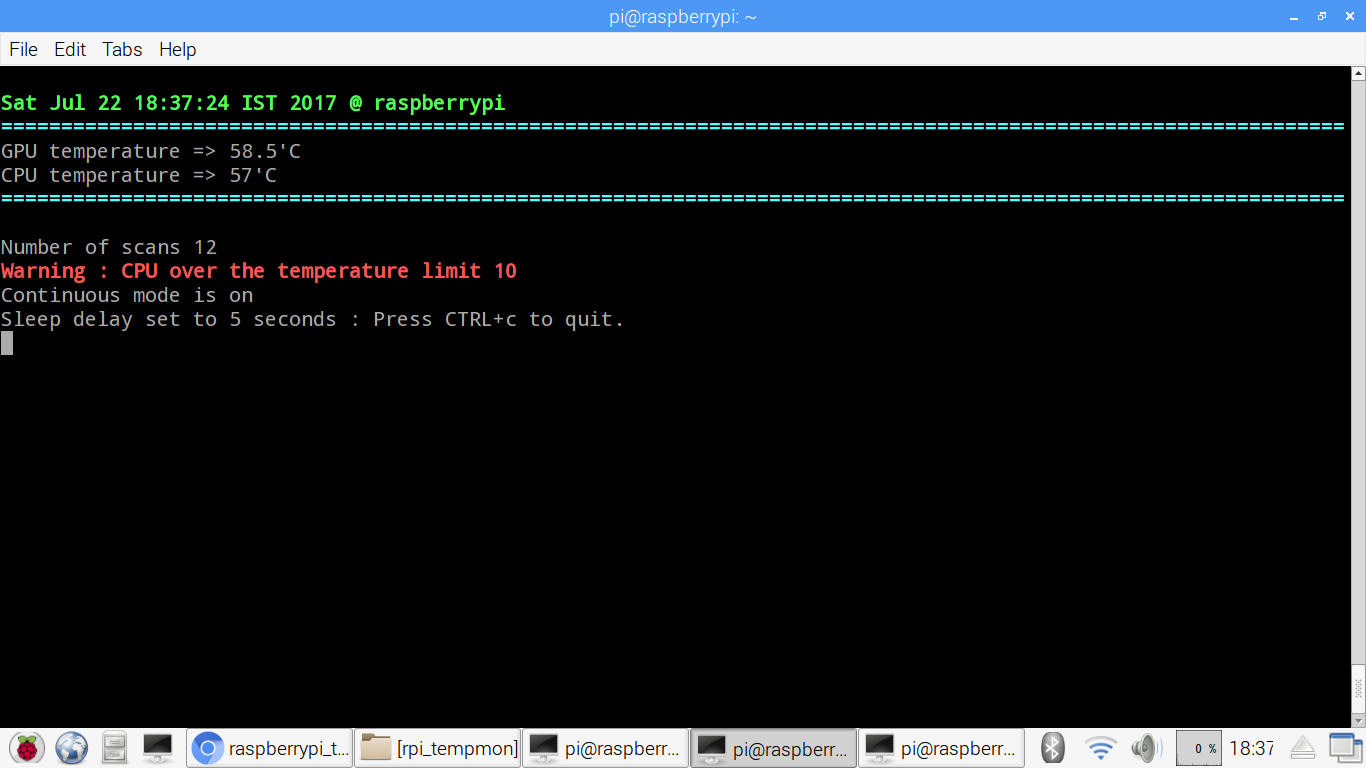
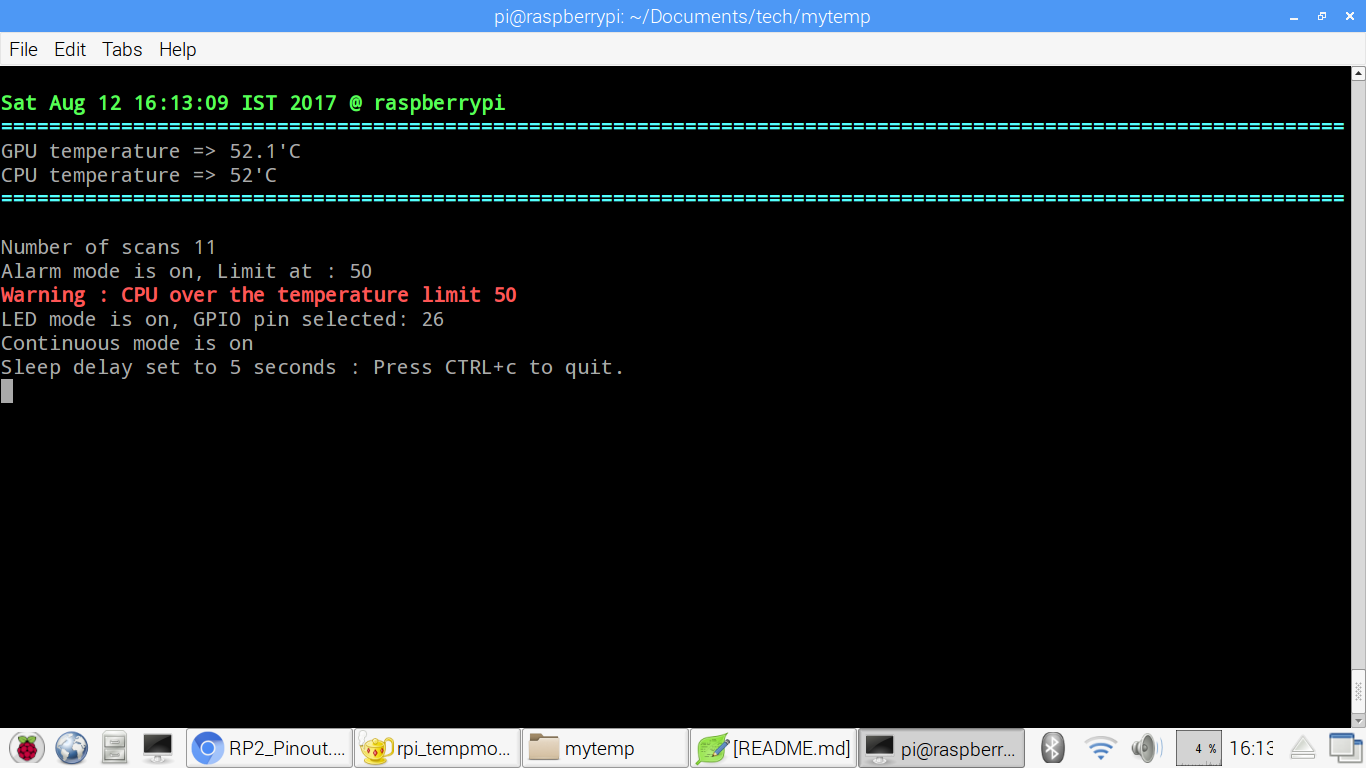
version 1.2-3

diff --git a/rpi_tempmon_lib.py b/rpi_tempmon_lib.py
@@ -1,0 +1,19 @@
+'''gavin lyons 120817 called from 
+tunrs led on and off rp_tempmon passed LED GPIO and on/off option '''
+
+import RPi.GPIO as GPIO
+import sys
+GPIO.setmode(GPIO.BCM)
+GPIO.setwarnings(False)
+led = int(sys.argv[1])
+GPIO.setup(led,GPIO.OUT)
+
+if sys.argv[2] == "off" :
+	GPIO.output(led,False)
+else:
+	GPIO.output(led,True)
+
+
+
+
+

diff --git a/README.md b/README.md
@@ -4,7 +4,9 @@ Overview
 * Title : Display the ARM CPU and GPU temperature of Raspberry Pi 2/3  
 * Description: This bash script will display the ARM CPU and 
 GPU temperature of Raspberry Pi 2/3 
-includes logging, alarm and mailing options. 
+includes GPIO LED output, logging, alarm and mailing options. 
+The main script is written in bash but it uses 
+a python module for the GPIO LED function.
 * Author: Gavin Lyons
 
 Table of contents
@@ -26,19 +28,31 @@ Table of contents
 Installation
 -----------------------------------------------
 rpi_tempmon is installed by copying script to an executable 
-path at $PATH and making it executable.
+path at $PATH and making it executable and also if the user wants to use the GPIO LED function
+they also must install a python library file.
 
 * Download and extract files from repository.
+
 * Copy the script file to an executable path for example 
 
 ```sh 
 sudo cp /home/pi/Downloads/rpi_tempmon.sh /usr/local/bin
 ```
 
-* Give it permission to run as script 
+* Give it permissions 
 
 ```sh
 sudo chmod u+x /usr/local/bin/rpi_tempmon.sh
+```
+* copy the python library file to following location
+
+```sh
+sudo cp /home/pi/Downloads/rpi_tempmon_lib.py /usr/lib/rpi_tempmon
+```
+* Give it permissions
+
+```sh
+sudo chmod u+x /usr/lib/rpi_tempmon/rpi_tempmon_lib.py
 ```
 
 Usage
@@ -55,10 +69,10 @@ Options list (standalone cannot be combined):
 | --------------- | --------------- |
 | -h  | Print help information and exit |
 | -v  | Print version information and exit |
-| -c  | enters continuous mode, optional number of seconds as a argument|
-| -l  | creates and/or appends to log-file at output folder |
-| -L  | creates a sub-folder at output folder with date/time stamp and puts a log file in it |
-| -m  | sends the output of -l to an email account |
+| -c  | Enters continuous mode, optional number of seconds as a argument|
+| -l  | Creates and/or appends to log-file at output folder |
+| -L  | Creates a sub-folder at output folder with date/time stamp and puts a log file in it |
+| -m  | Sends the output of -l to an email account |
 
 Files and setup
 -----------------------------------------
@@ -77,7 +91,11 @@ which is the destination of -m option.
 The other settings are ALARM_MODE which should be set to one or zero(one: alarm on, zero: off)
 CPU_UPPERLIMIT is the temperature limit of CPU in Centigrade should be a positive integer.
 If alarm is on when CPU goes above this temperature actives alarm functions. 
+LED_MODE which should be set to one or zero(one: alarm on, zero: off) if on 
+an LED will light during an alarm state in continuous and normal mode.
+The LED must be connected to a RPI GPIO pin as defined by GPIO_LED.
 At startup file is read by program, if it does not exist it creates a blank one.
+
 A dummy config file is available in documentation folder.
 
 >
@@ -86,7 +104,11 @@ A dummy config file is available in documentation folder.
 >ALARM_MODE=1
 >
 >CPU_UPPERLIMIT=60
-
+>
+>LED_MODE=0
+>
+>GPIO_LED=26
+>
 Output
 -------------------------------------
 
@@ -99,6 +121,7 @@ $HOME/.cache/rpi_tempmon/
 Dependencies
 -----------
 sSMTP - Simple SMTP
+
 sSMTP is a simple MTA to deliver mail from a computer to a mail hub (SMTP server)
 needed for -m mail option. This is optional. Install from repositories.
 
@@ -110,18 +133,19 @@ a Raspberry Pi 2/3 and outputs them in Centigrade together with
 datetime stamp.
 
 The program has five features
-1. Normal mode - output to screen
-2. continuous mode - output to screen
-3. logfile mode   - output to logfile(also mail mode if alarm triggered)
-4. logfolder mode - output to logfile
-5. mail mode  - output to email
+1. Normal mode - output to screen with optional LED output.
+2. continuous mode - output to screen with optional LED output.
+3. logfile mode   - output to logfile(also mail mode if alarm triggered).
+4. logfolder mode - output to logfile.
+5. mail mode  - output to email.
 
 In normal mode output, Data is sent to the terminal with option to repeat or quit
+A LED will light  for an on Alarm state if set.
 
 In continuous mode entered by option -c, The program enters a delay between 
 each display as a default this is set to 5 seconds by entered a number argument after -c 
 this can be adjusted for example "-c 60" will wait 60 seconds between scans. 
-Data is sent to terminal screen.
+Data is sent to terminal screen. A LED will light if for an on Alarm state if set.
  
 If an alarm limit is on and triggered by CPU going above limit.
 Data in red is displayed in screen for modes 1 and 2.  

diff --git a/Documentation/CHANGELOG.md b/Documentation/CHANGELOG.md
@@ -1,7 +1,10 @@
 #Version control history:
 
-* version 1.0-1 020717
+* Version 1.0-1 020717
 	* First version
 
 * Version 1.1-2 220717
 	* CPU Alarm function added
+
+* Version 1.2-3 120817
+	* GPIO LED feature added.
